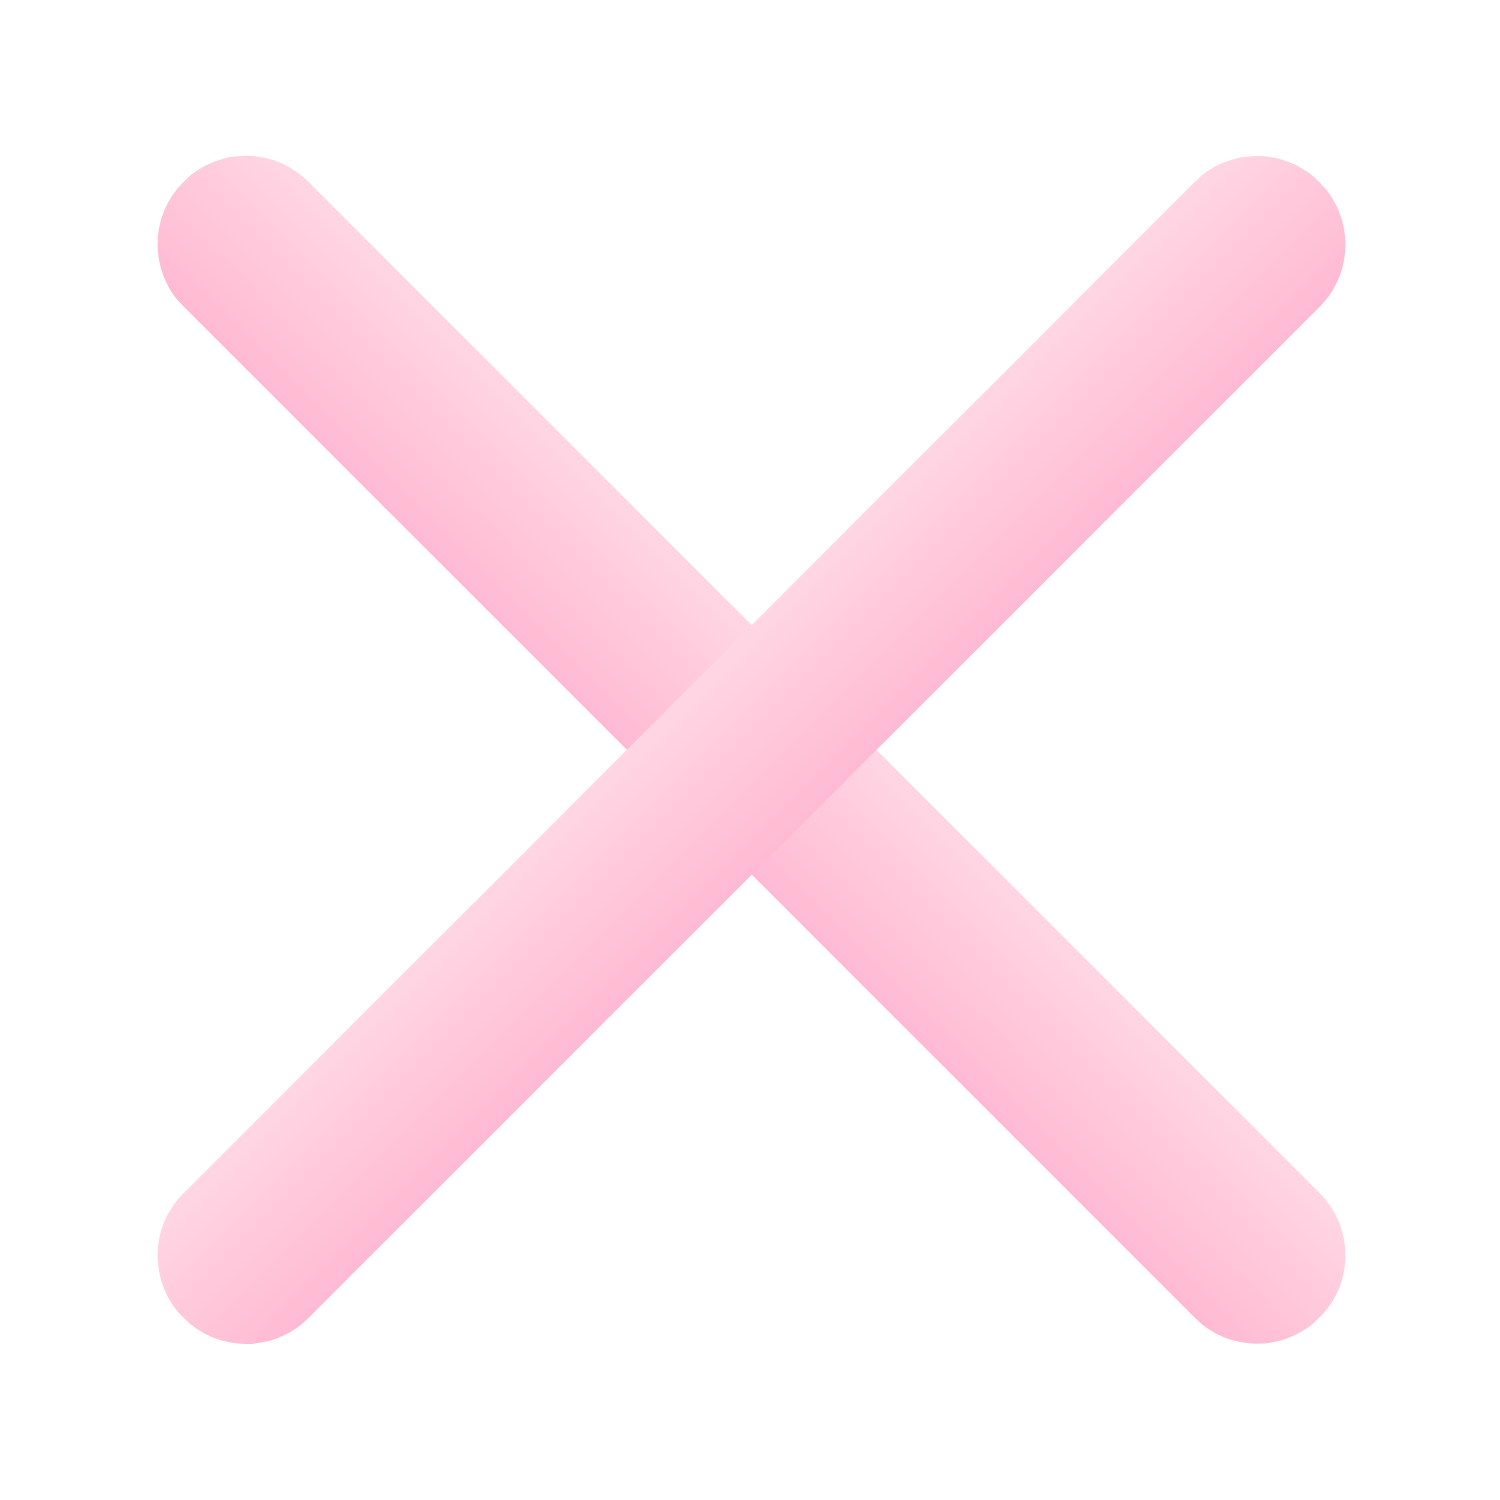
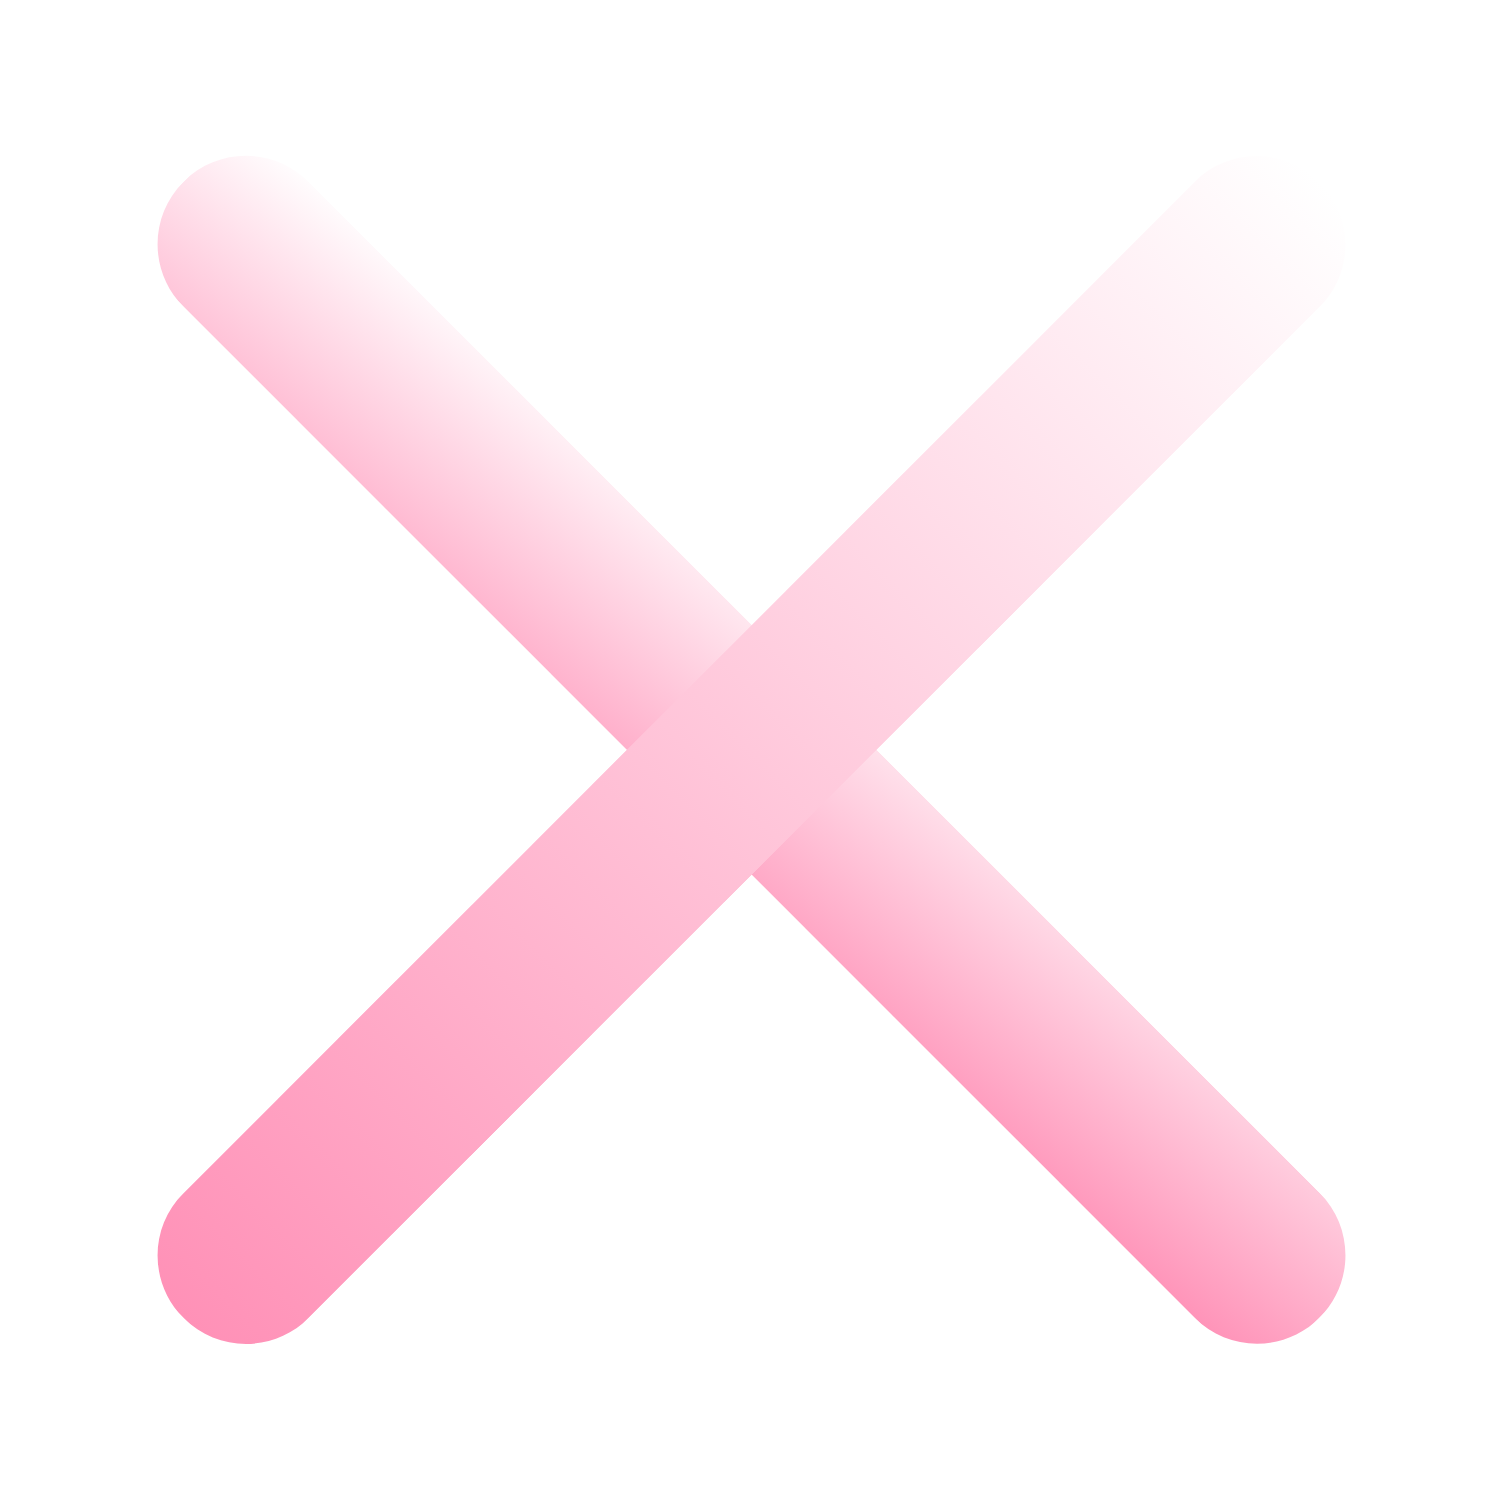
Fixed style of exit button

diff --git a/public/css/navbar.css b/public/css/navbar.css
@@ -64,7 +64,6 @@
     cursor:pointer;
     filter: drop-shadow(-1px -1px 3px #3C3C3C);
     -webkit-filter: drop-shadow(-1px -1px 3px #3C3C3C);
-
 }
 
 .navbar-hamburger-sprite {
@@ -76,7 +75,7 @@
 }
 
 @media screen and (max-width:1000px) {
-    .navbar-button, .navbar-buttons-panel {
+    .navbar-button2, .navbar-buttons-panel {
         display: none;
     }
 
@@ -101,7 +100,7 @@
     height: 100vh;
     width: 100vw;
     position: absolute;
-    background-color: #d4e3ef;
+    background-image: url("../img/newjeans-background-main.png");
     transition: opacity 0.5s;
     opacity: 0;
 }
@@ -109,8 +108,14 @@
 .exit-button-sprite {
     height: 42px;
     width: 42px;
-    -webkit-filter: drop-shadow(-1px -1px 2px #3C3C3C);
     filter: drop-shadow(-1px -1px 2px #3C3C3C);
+    -webkit-filter: drop-shadow(-1px -1px 2px #3C3C3C);
+}
+
+.exit-button-sprite:hover {
+    cursor:pointer;
+    filter: drop-shadow(-1px -1px 3px #3C3C3C);
+    -webkit-filter: drop-shadow(-1px -1px 3px #3C3C3C);
 }
 
 .exit-button {
@@ -121,6 +126,6 @@
 
 .header {
     display: flex;
-    margin-top: 10px;
+    margin-top: 20px;
     margin-right: 2vw;
 }
